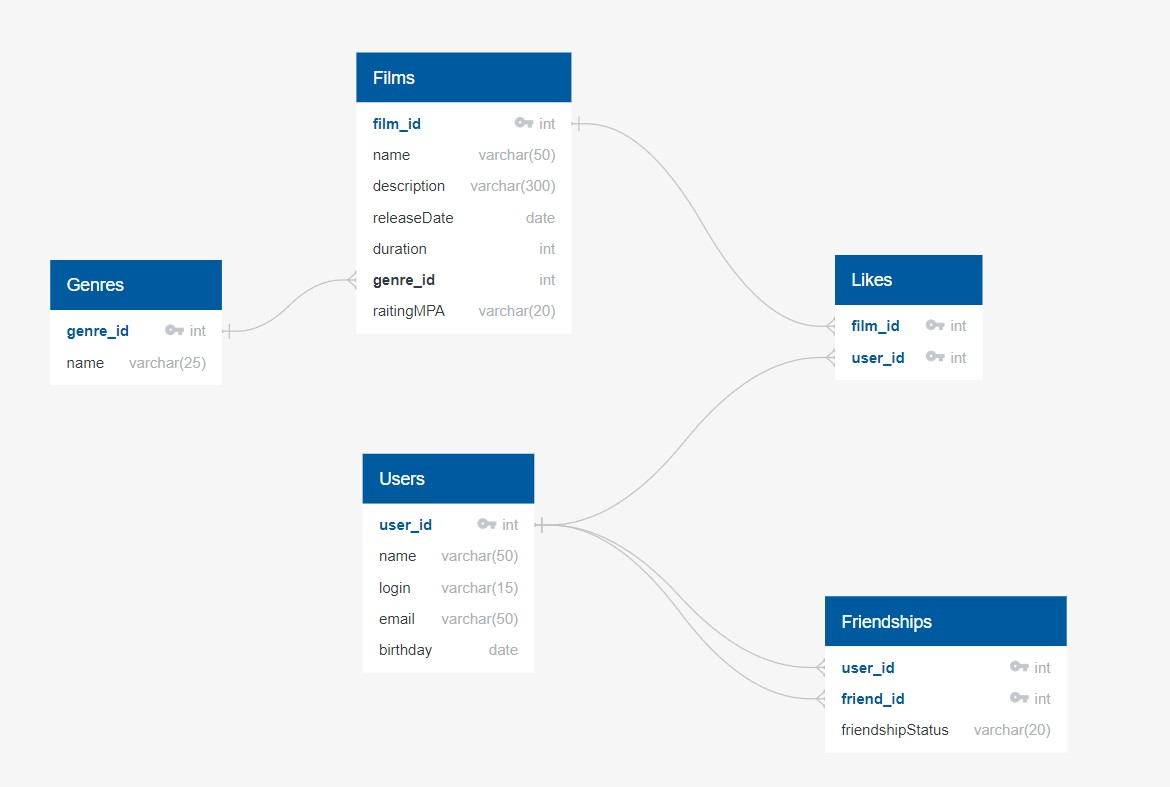
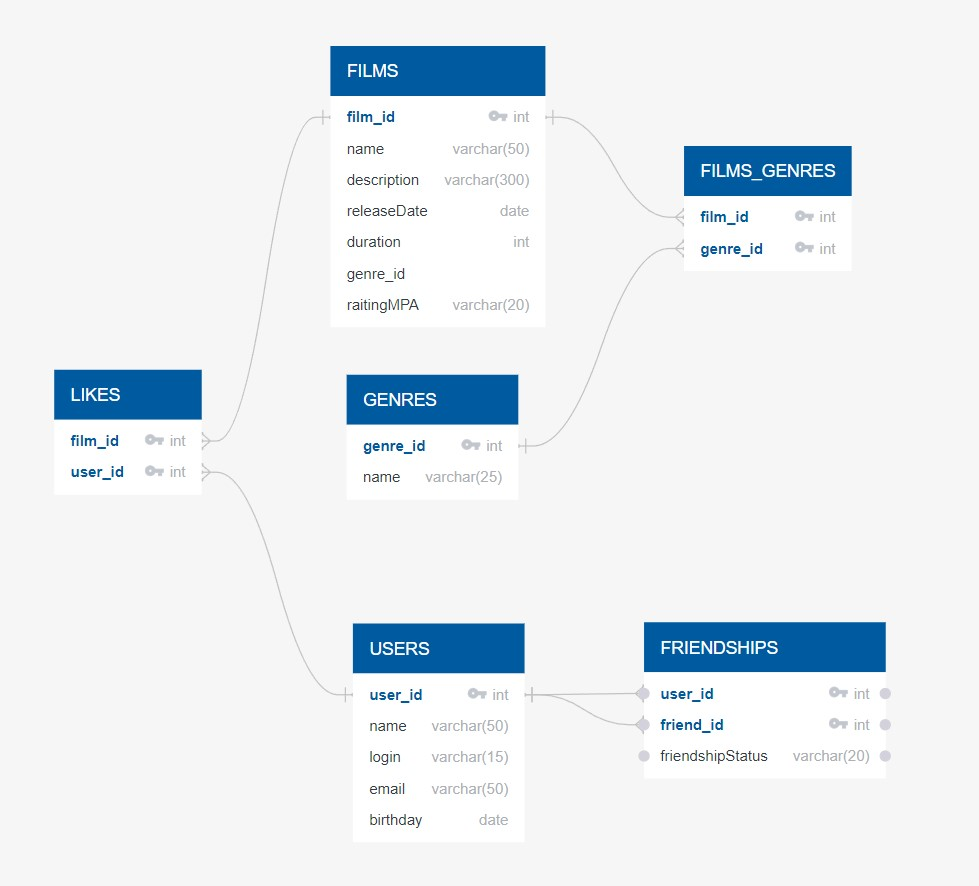
fix: ER - схема

diff --git a/README.md b/README.md
@@ -5,45 +5,46 @@
 ![схема](./src/main/resources/ER.jpg)
 
 #### Описание схемы:
- 1. __Films__ - содержит данные о фильмах. 
-    1.1 В связанной с ней по первичному коючу таблице __Likes__ хранятся данные о лайках фильмов в разрезе фильмов и пользователей.
+ 1. __FILMS__ - содержит данные о фильмах. 
+    1.1 В связанной с ней по первичному коючу таблице __LIKES__ хранятся данные о лайках фильмов в разрезе фильмов и пользователей.
     1.2 Рэйтинг MPA будет установлен соответствующим _ENUM_ наименование значения которого хранится в поле __raitingMPA__
+2. __GENRES__ - содержит список жанров фильмов
 
-2. __Genres__ - содержит список жанров фильмов
+3. __USERS__ - содержит данные о пользователях
 
-3. __Users__ - содержит данные о пользователях
-
-4. __Friendships__ - содержит информацию о дружбах пользователей , значение статуса дружбы хранится в   поле __friendshipStatus__ и содержит наименование значения _ENUM_ 
+4. __FRIENDSHIPS__ - содержит информацию о дружбах пользователей , значение статуса дружбы хранится в   поле __friendshipStatus__ и содержит наименование значения _ENUM_
+    
+5. __FILMS_GENRES__ - содержит информацию о жанрах фильмов 
 _____
 ####Основные запросы
 
 ###### Пользователи
 
 ___Получить пользователя по id___
-SELECT * FROM "Users" WHERE "user_id" = 1
+SELECT * FROM USERS WHERE "user_id" = 1
 
 ___Получить список друзей___ 
-SELECT "friend_id" FROM "Friendships" WHERE "user_id" = 1
+SELECT "friend_id" FROM FRIENDSHIPS WHERE "user_id" = 1
 
 ___Добавить в друзья___
-INSERT INTO "Friendships" ("user_id", "friend_id", "friendshipStatus")
+INSERT INTO FRIENDSHIPS ("user_id", "friend_id", "friendshipStatus")
 VALUES (1,2,'unconfirmed') 
 
 ___Удалить из друзей___
-DELETE FROM "Friendships" WHERE "user_id" = 1 AND "friend_id" = 2
+DELETE FROM FRIENDSHIPS WHERE "user_id" = 1 AND "friend_id" = 2
 
 ###### Фильмы
 
 ___Добавить лайк___
-INSERT INTO "Likes" ("film_id","user_id") 
+INSERT INTO LIKES ("film_id","user_id") 
 VALUES (1,1)
 
 ___Удалить лайк____
-DELETE FROM "Likes" WHERE "film_id" = 1 AND "user_id" = 2
+DELETE FROM LIKES WHERE "film_id" = 1 AND "user_id" = 2
 
 ___Получить ТОП 10 самых популярных фильмов___
 SELECT "film_id"
-FROM "Likes"
+FROM LIKES
 GROUP BY "film_id"
 ORDER BY  COUNT("user_id") DESC
 LIMIT 10
